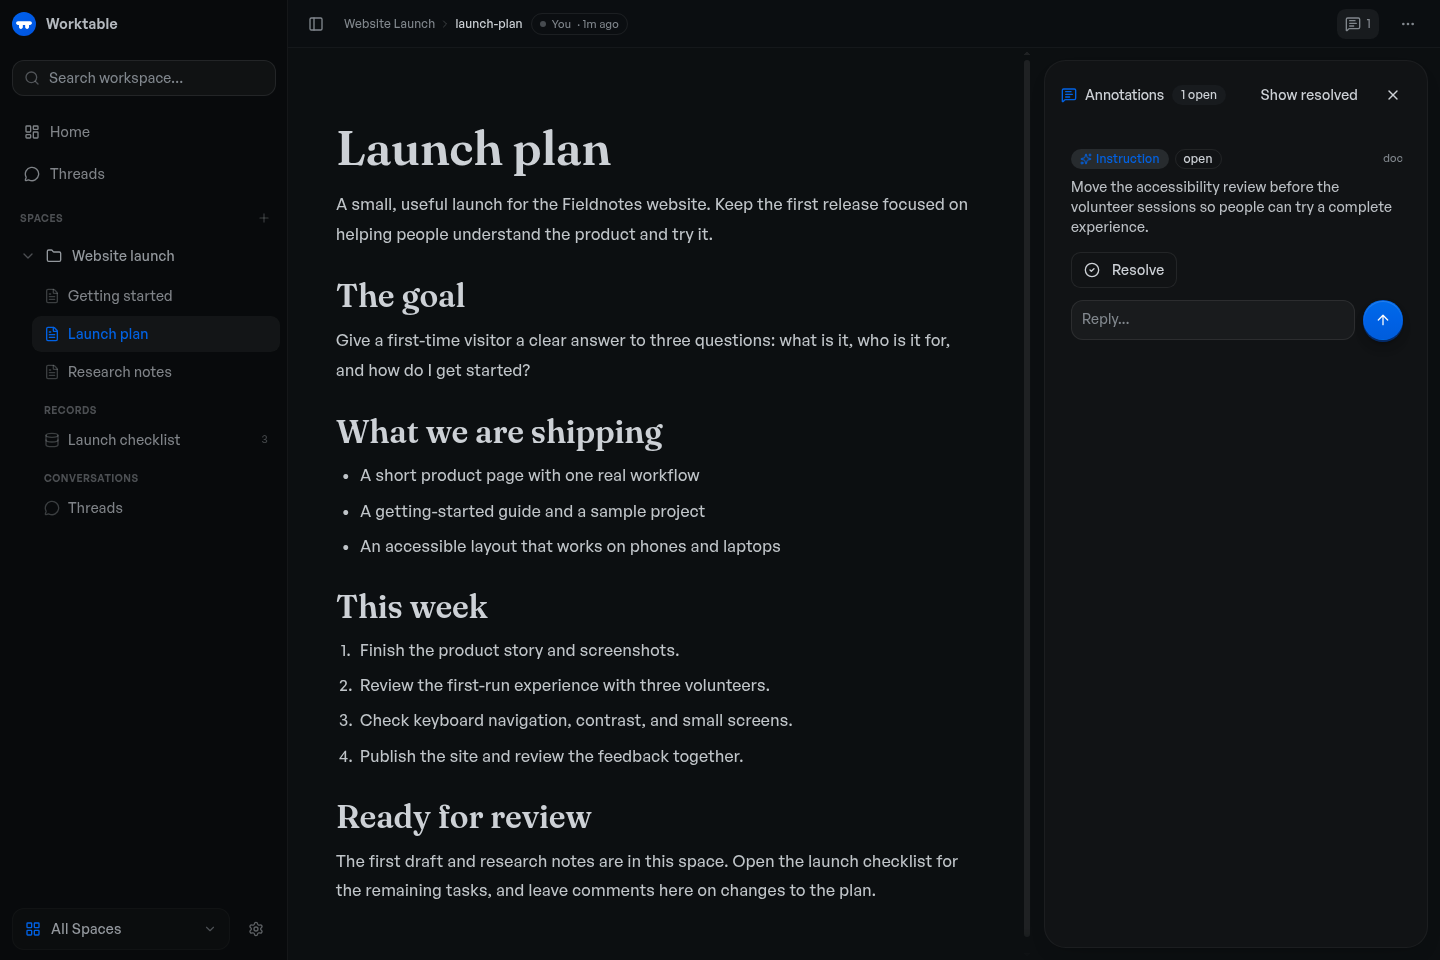
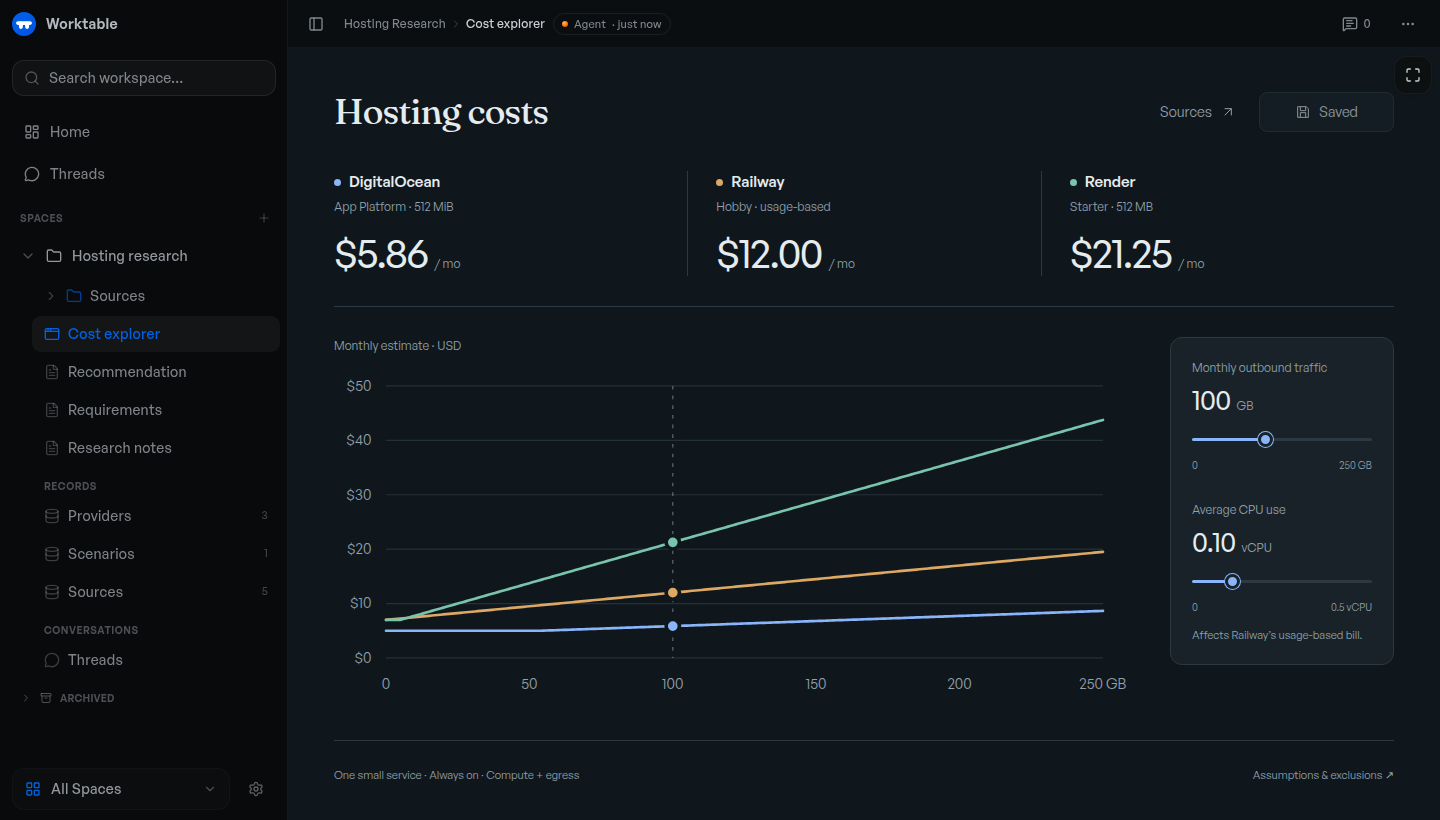
docs: clarify README and show an agent-built cost explorer (#29)

diff --git a/README.md b/README.md
@@ -1,97 +1,93 @@
 # Worktable
 
-A local-first workspace for you and your AI agents.
+**Bring your work and agents together.**
 
-Keep the work you do with agents somewhere you can return to: research, plans,
-interactive tools, and project records. Worktable gives you a visual workspace to
-read, edit, and review that work, while your agents use the same content through
-MCP. Switch agents or start a new conversation without starting the project over.
+Worktable is an open-source workspace where your agents save research, organize
+data, and build interactive tools. Connect them through MCP, then open their
+work in your browser to view, edit, or leave feedback whenever you need to.
 
-[Get started](#get-started) · [Documentation](https://docs.worktable.dev) · [Releases](https://github.com/worktable/worktable-dev/releases) · [Contributing](CONTRIBUTING.md)
+Run it locally with files you control, self-host it, or use Worktable Cloud.
 
-![A project plan in Worktable, with related documents and records in the sidebar and review comments beside the document.](docs/images/worktable-workspace.png)
+[Get started](#get-started) · [Documentation](https://docs.worktable.dev) · [Worktable Cloud](https://www.worktable.cloud) · [Releases](https://github.com/worktable/worktable-dev/releases)
 
-## Work that lasts beyond a chat
+![An agent-built hosting cost explorer in Worktable, with research documents, provider records, and saved scenarios in the sidebar.](docs/images/worktable-workspace.png)
 
-Ask an agent to research a decision and save the findings. Open the document,
-leave a comment on what needs work, and have the agent revise it. Later, another
-agent can pick up the same project with its documents and decisions intact.
-
-- **Docs:** write and edit notes, research, plans, and reference material, with
-  versions and links between documents.
-- **Interactive HTML:** let an agent build a dashboard, calculator, or small tool
-  you can use inside the workspace.
-- **Records:** keep structured information such as tasks, projects, and research
-  findings in collections that both you and your agents can update.
-- **Review and conversations:** attach comments and instructions to the work,
-  track changes, and continue discussions in persistent threads.
-
-Worktable connects to the agents you already use. It supplies their shared
-workspace; your agent client supplies the model and any required subscription
-or API credentials. You can also write and organize content yourself.
-
-## Your workspace is yours
-
-Local and self-hosted workspaces live in a folder you control. Documents, HTML,
-records, and metadata are stored as files, including Markdown, JSON, and YAML.
-You can inspect them, back them up, or move the workspace to another machine.
-See the [file-backed foundation](https://docs.worktable.dev/concepts/file-based-foundation/)
-for the storage formats and portability model.
-
-Local Worktable does not require a Worktable account. Connected agent providers
-may process the content you give them under their own terms.
+*An agent-built cost explorer, backed by saved research and workspace records.*
 
 ## Get started
 
-Install on **macOS or Linux**, on Apple Silicon/arm64 or x64:
+Use an MCP-compatible agent, with its own subscription or API credentials
+where required.
+
+**macOS app:** [Download Worktable for Mac](https://github.com/worktable/worktable-dev/releases/latest/download/worktable-desktop-darwin-arm64.dmg)
+for Apple Silicon, macOS 13 or newer. Install and open the app, then choose **This Mac**.
+
+**Terminal:** macOS or Linux, arm64 or x64. No separate runtime or source
+checkout needed.
 
 ```sh
 curl -fsSL https://worktable.dev/install | sh
 ```
 
-The installer guides you through setup and prints the address to open in your
-browser, normally `http://localhost:7480`. Your workspace defaults to
-`~/Worktable`. You do not need Node, Bun, or a source checkout to use the release.
-To open Worktable again later, run `worktable`.
+Open the browser address printed by the installer. Run `worktable` to open
+it again later.
 
-Prefer to inspect the installer first? [Read the script](install.sh), or preview
-its actions with `curl -fsSL https://worktable.dev/install | sh -s -- --dry-run`.
+In either version, open **Settings → Agents** and [connect your agent](https://docs.worktable.dev/start/connect-your-agent/).
+Ask it to save research, organize records, or build a tool in Worktable.
 
-Next, open **Settings → Agents** and
-[connect your agent](https://docs.worktable.dev/start/connect-your-agent/).
-Create a space for a project and ask your agent to save a plan or research brief
-there. [Your first space](https://docs.worktable.dev/start/first-space/) walks
-through creating, reviewing, and continuing that work.
+[Inspect the installer](install.sh) · [Installation guide](https://docs.worktable.dev/start/install/) · [Your first space](https://docs.worktable.dev/start/first-space/)
 
-The current release provides the CLI and browser app. Desktop source is included;
-see [Desktop availability](https://docs.worktable.dev/start/desktop/) for native
-app installation status. For a server you control, follow the
-[remote access guide](https://docs.worktable.dev/guides/remote-access/).
-[Worktable Cloud](https://www.worktable.cloud) is the optional managed service.
+**Cloud:** [Worktable Cloud](https://www.worktable.cloud) manages hosting for you.
+For other setups, see [self-hosting](https://docs.worktable.dev/guides/remote-access/).
 
-## Learn more
+## Durable artifacts for all kinds of work
 
-- [Ways to use Worktable](https://docs.worktable.dev/guides/what-to-use-it-for/)
-- [Agent setup and integrations](https://docs.worktable.dev/start/connect-your-agent/)
-- [CLI and MCP reference](https://docs.worktable.dev/reference/cli/)
-- [Develop from source](docs/development.md) and [build release artifacts](docs/building.md)
+- **Save your research.** Keep findings, plans, and decisions in linked documents.
+- **Organize your data.** Maintain tasks, sources, feedback, and other records
+  with shared fields.
+- **Build tools around it.** Ask for an interactive dashboard, board, or calculator.
+  HTML tools can read and update the same records your agents maintain.
 
-## Help and contribute
+For example, ask an agent to research hosting options, save the sources and
+pricing, and build a cost explorer for your expected usage. Recheck the rates
+or change the assumptions later; the research, data, and tool stay together.
 
-Worktable is actively developed. [Report a bug](https://github.com/worktable/worktable-dev/issues/new?template=bug_report.yml)
+## Start in one agent. Continue in another.
+
+Connected agents work with the same saved documents, records, and tools. Ask
+another agent to continue from what's already there. You can edit the results
+yourself or leave comments for an agent to act on.
+
+## Your workspace is yours
+
+- **Keep work local.** Local and self-hosted workspaces are backed by files you
+  can inspect and back up. Local Worktable requires no account.
+- **Move your workspace.** [Export and import](https://docs.worktable.dev/guides/import-export/)
+  between Local, self-hosted Worktable, and Cloud.
+
+Connected agent providers may process the content you give them under their own
+terms. See the [file-backed foundation](https://docs.worktable.dev/concepts/file-based-foundation/)
+for storage and portability details.
+
+## Documentation and help
+
+[Use cases](https://docs.worktable.dev/guides/what-to-use-it-for/) · [CLI and MCP reference](https://docs.worktable.dev/reference/cli/) · [Changelog](CHANGELOG.md)
+
+[Report a bug](https://github.com/worktable/worktable-dev/issues/new?template=bug_report.yml)
 or [ask a question](https://github.com/worktable/worktable-dev/discussions/categories/q-a).
-Use synthetic examples and remove private information from attachments.
-Report vulnerabilities privately through [the security policy](SECURITY.md).
+Remove private information from attachments. Report vulnerabilities privately
+through the [security policy](SECURITY.md).
+
+## Contributing
 
 Fixes and documentation improvements are welcome. Please discuss substantial
-features before implementing them so we can agree on scope and approach.
-[CONTRIBUTING.md](CONTRIBUTING.md) covers development, review, and contribution
-sign-off. [The changelog](CHANGELOG.md) records release changes.
+features first. Read [CONTRIBUTING.md](CONTRIBUTING.md) for the contribution process,
+[development](docs/development.md) to run from source, or
+[building](docs/building.md) to create release artifacts.
 
 ## License
 
 The Worktable application is **AGPL-3.0-only**, copyright Reva Labs.
 See [LICENSE](LICENSE). Some shared components and agent plugins have MIT
 licenses; [NOTICE](NOTICE) and the relevant package notices identify the exact
-exceptions and third-party terms. Bundled runtime source and rebuild materials
-are listed in [SOURCE-MATERIALS.json](SOURCE-MATERIALS.json).
+exceptions and third-party terms.
